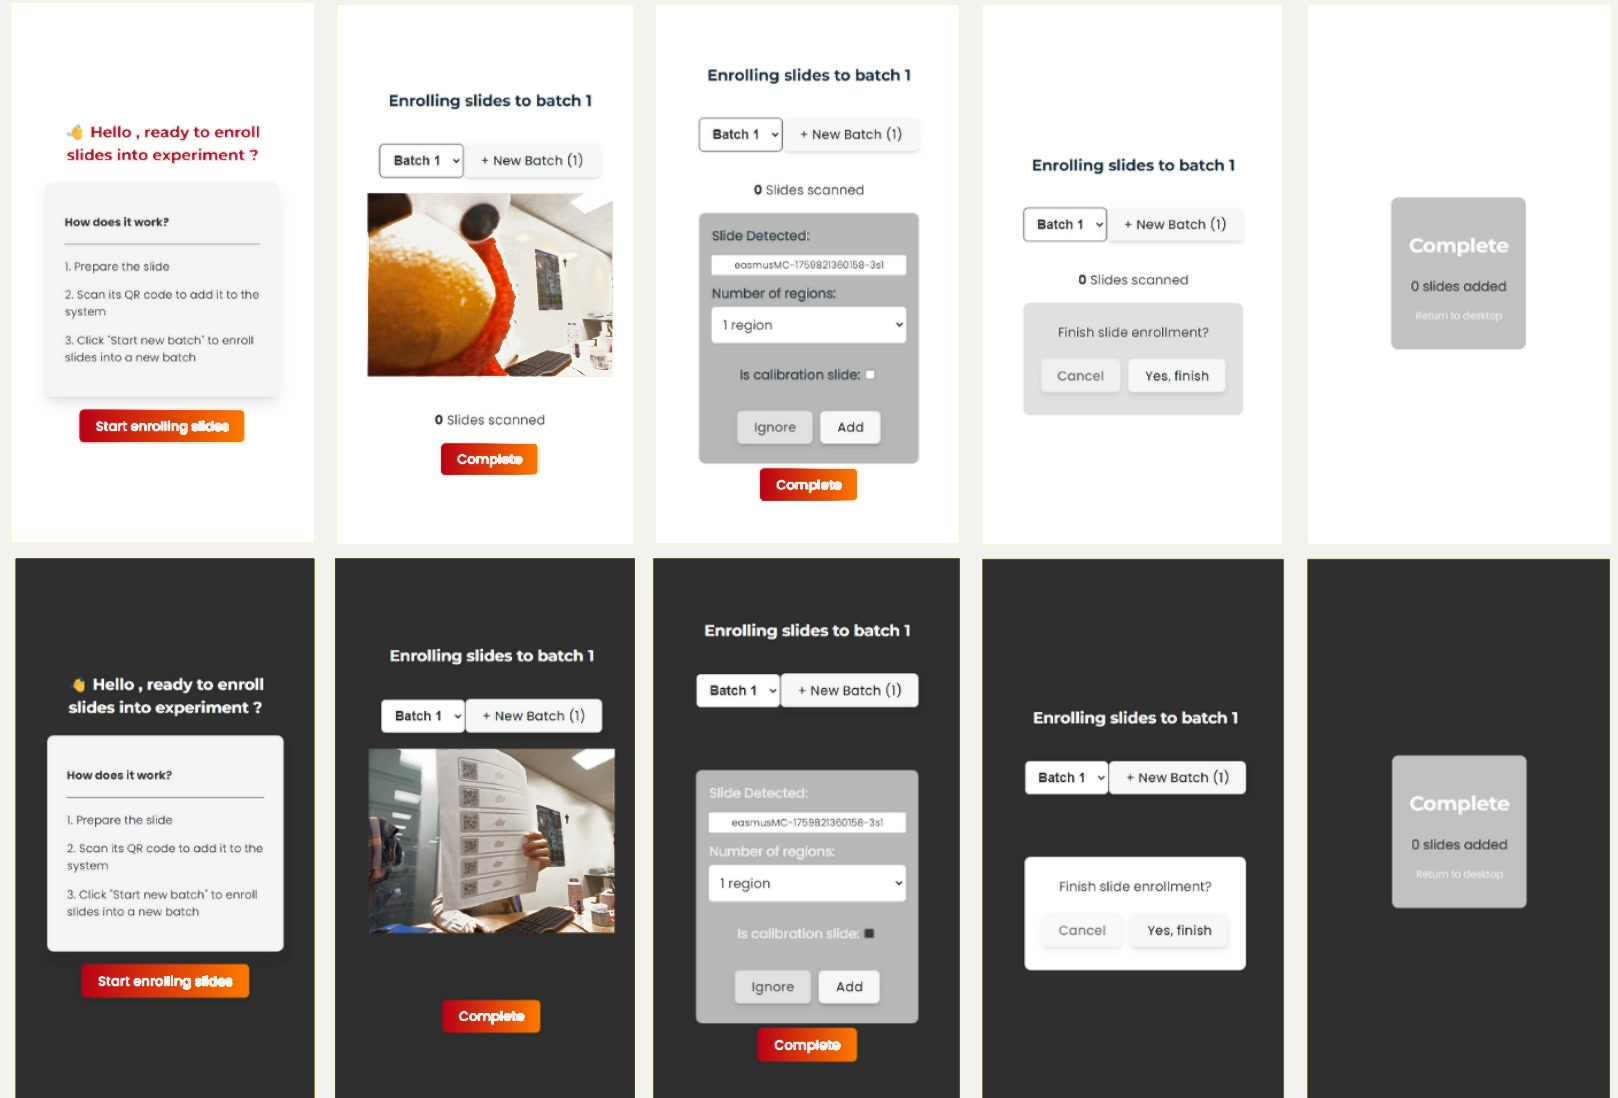
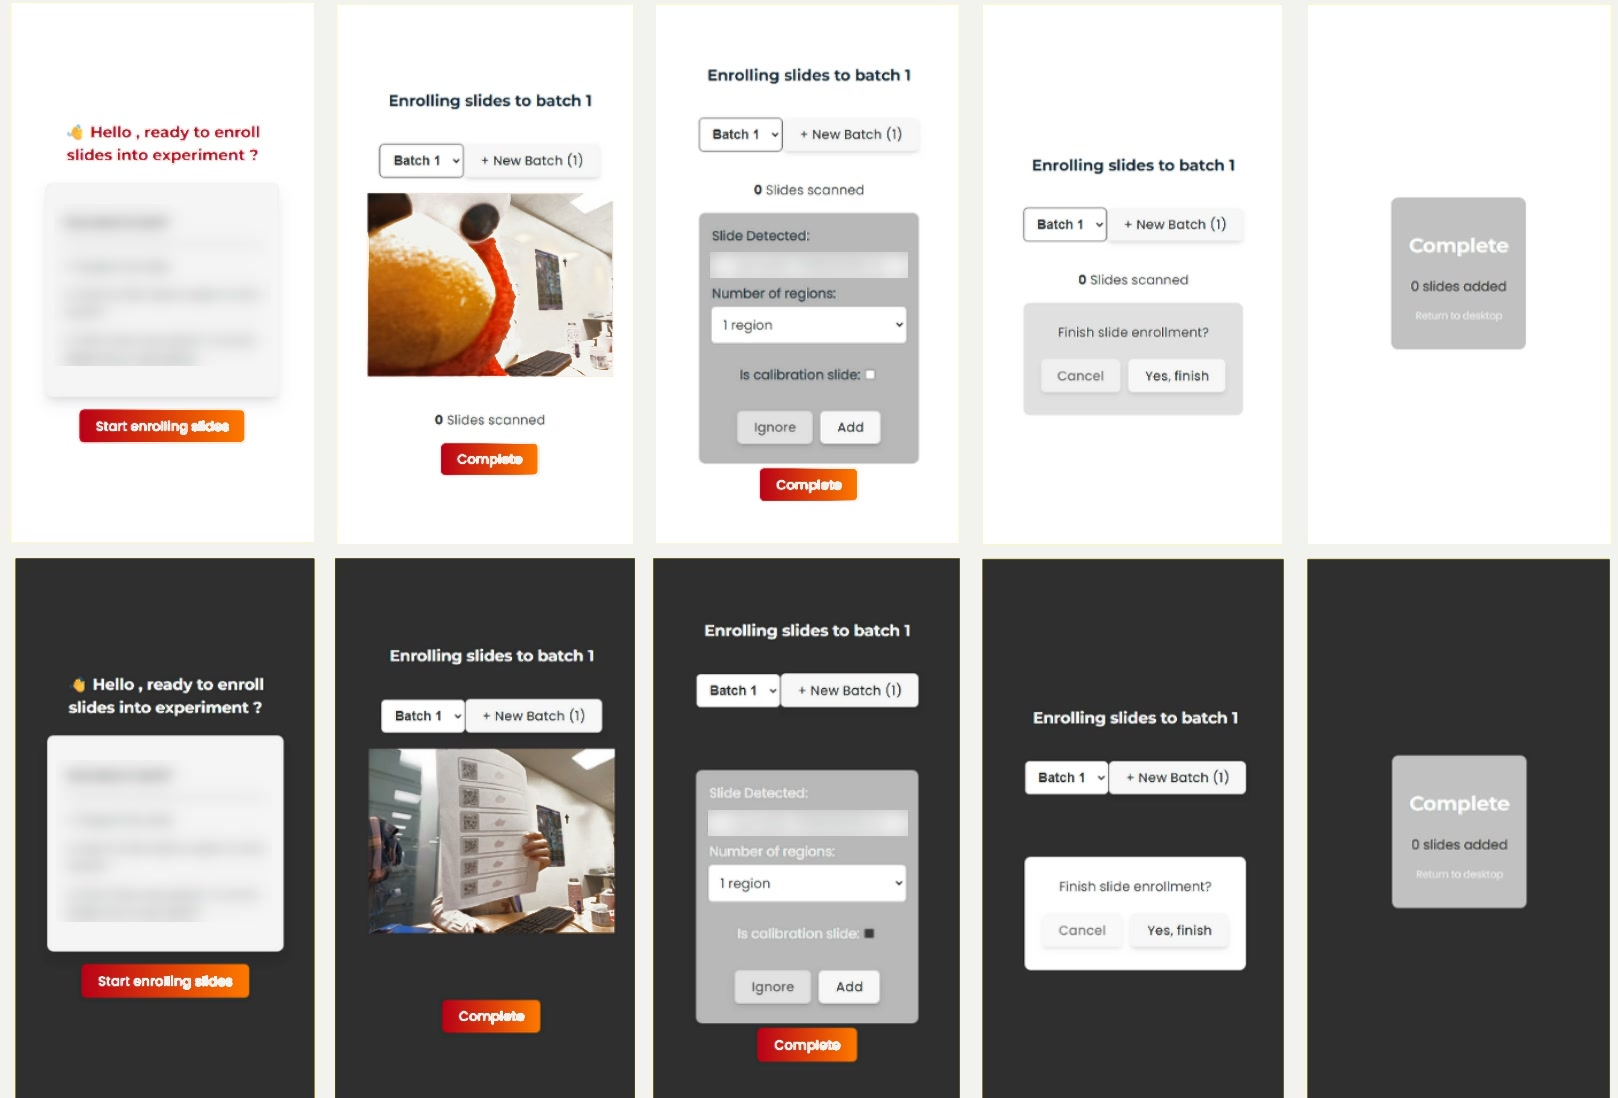
Chromodynamics: Slide Runner section with five-clicks-to-one collaborators redesign, home screen before/after, blurred names and instructions, team line. REIA: real phone screen on cover. Homepage: updated About me

diff --git a/chromodynamics.html b/chromodynamics.html
@@ -237,7 +237,49 @@
 
       <section class="cs-section ed-text" id="app">
         <p class="cv-label">06 — App UI redesign</p>
-        <h2 class="ed-serif">Slide Runner, in the new brand</h2>
+        <h2 class="ed-serif">Slide Runner: clearer, faster and on brand</h2>
+        <p>
+          Slide Runner has a desktop software and a mobile app, and I redesigned both. The biggest change was
+          in the desktop software.
+        </p>
+
+        <h3 class="ed-subhead">Five clicks, one screen</h3>
+        <p>
+          Inviting a colleague to an experiment was spread over five steps: searching for them, opening a
+          pop-up to write a note, and then checking the pending invitations and current collaborators on
+          separate screens.
+        </p>
+        <figure class="ed-media">
+          <img src="assets/projects/chromodynamics/invite-old-steps.jpg" alt="The old invite flow in five screens: an empty search, a search result with an Invite button, a Send Invitation pop-up, a pending invitations list and a current collaborators list" />
+          <figcaption class="cv-label">Before: five screens to invite someone and see who has access (names blurred)</figcaption>
+        </figure>
+        <p>
+          I brought it all together in one Collaborators screen. You search, pick a role, add a note and send
+          the invite in one row, and right below you see who is still pending and who already has access.
+        </p>
+        <figure class="ed-media">
+          <img src="assets/projects/chromodynamics/invite-new.jpg" alt="The redesigned Collaborators screen: an invite row with search, role and note fields and a Send Invite button, a pending invitations list with Resend and Cancel, and a grid of current collaborators with roles" />
+          <figcaption class="cv-label">After: inviting and managing collaborators on one screen (names blurred)</figcaption>
+        </figure>
+
+        <h3 class="ed-subhead">The home screen</h3>
+        <p>
+          The login, status and queue were stacked in the middle of a grey gradient. In the redesign the login
+          gets its own dark panel, and the other side shows the machine itself with its live status, progress
+          and what is up next in the queue.
+        </p>
+        <div class="ed-pair">
+          <figure class="ed-media">
+            <img src="assets/projects/chromodynamics/slide-runner-home-old.jpg" alt="The old Slide Runner home screen: a login field and a small status card centred on a grey gradient" />
+            <figcaption class="cv-label">Before: the original home screen</figcaption>
+          </figure>
+          <figure class="ed-media">
+            <img src="assets/projects/chromodynamics/slide-runner-home.png" alt="The redesigned Slide Runner home screen: a dark login panel next to the scanner, with its status, progress, queue and up-next list" />
+            <figcaption class="cv-label">After: login, machine and queue at a glance</figcaption>
+          </figure>
+        </div>
+
+        <h3 class="ed-subhead">The mobile app</h3>
         <p>
           The mobile app is used to enrol microscope slides into an experiment by scanning their QR codes.
           The flow worked, but the screens were inconsistent: grey cards, small headings and only three
@@ -249,18 +291,17 @@
         </figure>
         <p>
           In the redesign I used the new brand fonts and colours, made the headings bigger and wrote out every
-          step on the start screen, in both light and dark mode. The screens are a prototype for the
-          front-end developer, who was also my coach, to build from, so the camera view is shown as a frame
-          for lining up the QR code.
+          step on the start screen, in both light and dark mode. The camera view is shown as a frame for lining
+          up the QR code.
         </p>
         <figure class="ed-media">
           <img src="assets/projects/chromodynamics/app-mobile-new.jpg" alt="The redesigned Slide Runner mobile enrolment flow in light and dark mode, in the new red and orange brand" />
           <figcaption class="cv-label">After: the redesigned enrolment flow</figcaption>
         </figure>
-        <figure class="ed-media">
-          <img src="assets/projects/chromodynamics/slide-runner-home.png" alt="Slide Runner app home screen with login and scanning status" />
-          <figcaption class="cv-label">Slide Runner app: home screen</figcaption>
-        </figure>
+        <p>
+          All screens are prototypes for the front-end developer, who was also my coach, to build from, and
+          they went into the Brand and Design System folder together with the rest of the handover.
+        </p>
       </section>
 
       <section class="cs-section" id="learned">
@@ -273,7 +314,7 @@
       <section class="cs-section ed-text" id="team">
         <p class="cv-label">08 — The team</p>
         <h2 class="ed-serif">18 weeks at Chromodynamics</h2>
-        <p>My kind of people: very unserious, lots of laughs, but still driven and passionate about what they do. I’ll genuinely miss working with them.</p>
+        <p>My kind of people: lots of laughs, but still driven and passionate about what they do. I’ll genuinely miss working with them.</p>
         <figure class="ed-media">
           <img src="assets/projects/chromodynamics/team-group.jpg" alt="The Chromodynamics team together outside the office in Eindhoven" />
           <figcaption class="cv-label">The Chromodynamics team in Eindhoven</figcaption>

diff --git a/index.html b/index.html
@@ -99,14 +99,19 @@
                 creative brainstorming all the way through to development, shaping an idea from spark to
                 shipped product. <br><br>
 
-                I like working on projects that push me outside my comfort zone and challenge my
-                creativity, especially ones that solve a social problem. I got to do exactly that during
-                my minor last semester, and also during my internship at Chromodynamics. <br><br>
+                For me, design only matters if it has a purpose. I like working on projects that push me
+                outside my comfort zone and challenge my creativity, especially ones that solve a real
+                social problem. I got to
+                do exactly that during my minor last semester, and also during my internship at
+                Chromodynamics. <br><br>
 
                 Right now, I’m following Advanced Immersive Experience for my 7th semester. It’s my first
-                time working with XR, and I’m excited to find out how good user experience translates
-                from a screen to a 3D space. I’m also looking for a graduation internship where I can
-                help build creative solutions and good user experiences. <br><br>
+                time working with XR, and I’m learning how good user experience translates not only to a
+                screen, but now to a 3D space. <br><br>
+
+                Next up: my graduation internship. I’m looking for a team where I can keep learning from
+                experienced designers, take ownership of real problems, and turn research into products
+                people actually enjoy using. <br><br>
 
                 Outside of school, I practice Olympic weightlifting and I’m a big music enthusiast. I’m
                 also from Aruba, so I’m very in touch with my island vibes, and I bring that energy to a
